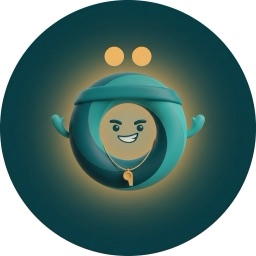
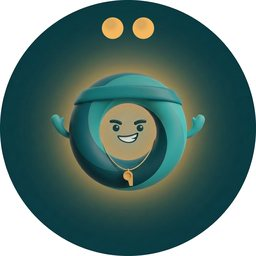
Аватары: одинаковые точки у всех, светлокожий персонаж не первым
Его вопросы 25.10: «почему белые мужчины все еще идут первыми? И почему две
точки над головами такие больше у некоторых?». Точки Gemini убрал с каждой
картинки, одинаковые нарисованы поверх (центр 11% сверху, радиус 4,2%).
Порядок — crypto.getRandomValues, m1/f1 первым не встаёт.

Claude-Session: https://claude.ai/code/session_01Bc3Np85Bd2kz1coA2xUgTW

Changed region(s): [[0.375, 0.0625, 0.625, 0.2812]]

diff --git a/index.html b/index.html
@@ -8066,8 +8066,13 @@ function имяТренера(){ var me=myData()||{}; return String(me.coach_nam
    стояли первыми»; у персонажа из знака — без туловища. По 10 на образ + свой из знака; порядок
    перемешивается при каждом открытии листа, персонаж из знака — последним. */
 var АВ_НА_ОБРАЗ={m:11, f:11};   /* 25.10, «еще по одному животному к каждому полу»: лев, енот */
+/* его вопрос «почему белые мужчины все еще идут первыми?»: случайность — от crypto, а светлокожий
+   персонаж (m1 / f1) первым не встаёт никогда */
+function аватарСлуч(n){ try{ var u=new Uint32Array(1); crypto.getRandomValues(u); return u[0]%n; }catch(e){ return Math.floor(Math.random()*n); } }
 function аватарПорядок(пол){ var a=[]; for(var i=1;i<=АВ_НА_ОБРАЗ[пол];i++) a.push(пол+i);
-  for(var j=a.length-1;j>0;j--){ var r=Math.floor(Math.random()*(j+1)), t=a[j]; a[j]=a[r]; a[r]=t; } return a; }
+  for(var j=a.length-1;j>0;j--){ var r=аватарСлуч(j+1), t=a[j]; a[j]=a[r]; a[r]=t; }
+  if(a[0]===пол+'1'){ var k=1+аватарСлуч(a.length-1), t2=a[0]; a[0]=a[k]; a[k]=t2; }
+  return a; }
 function аватарСвой(k, пол){ var м=/^([mf])(\d{1,2}|n)$/.exec(k||''); return !!м && м[1]===пол && (м[2]==='n' || (+м[2]>=1 && +м[2]<=АВ_НА_ОБРАЗ[пол])); }
 function аватарКод(me){ me=me||{}; var пол=me.coach_sex==='f'?'f':(me.coach_sex==='m'?'m':''), k=me.coach_av||'';
   if(!пол) return 'n'; return аватарСвой(k, пол) ? k : пол+'n'; }

diff --git a/tg/test-trener-pod-sebya.js b/tg/test-trener-pod-sebya.js
@@ -39,6 +39,7 @@ const ЦЕЛЬ = { text: '75 кг к январю', wt: 'down', rate: -0.5, from
       /* 24.10: аватар — шесть на образ, выбранный уходит в профиль и в чат */
       дано((await page.locator('#trenm [data-trav]').count()) === 12 && (await page.getAttribute('#trenm [data-trav="fn"]', 'aria-pressed')) === 'true', тема + ': 11 женских и персонаж из знака — он по умолчанию');
       дано((await page.getAttribute('#trenm [data-trav]:last-child', 'data-trav')) === 'fn', тема + ': персонаж из знака — последним');
+      дано((await page.getAttribute('#trenm [data-trav]:first-child', 'data-trav')) !== 'f1', тема + ': светлокожая — не первой');
       await page.click('#trenm [data-trsex="m"]');
       дано((await page.locator('#trenm [data-trav]').count()) === 12 && (await page.getAttribute('#trenm [data-trav="mn"]', 'aria-pressed')) === 'true', тема + ': у мужского столько же и свой персонаж из знака');
       await page.click('#trenm [data-trsex="f"]');
